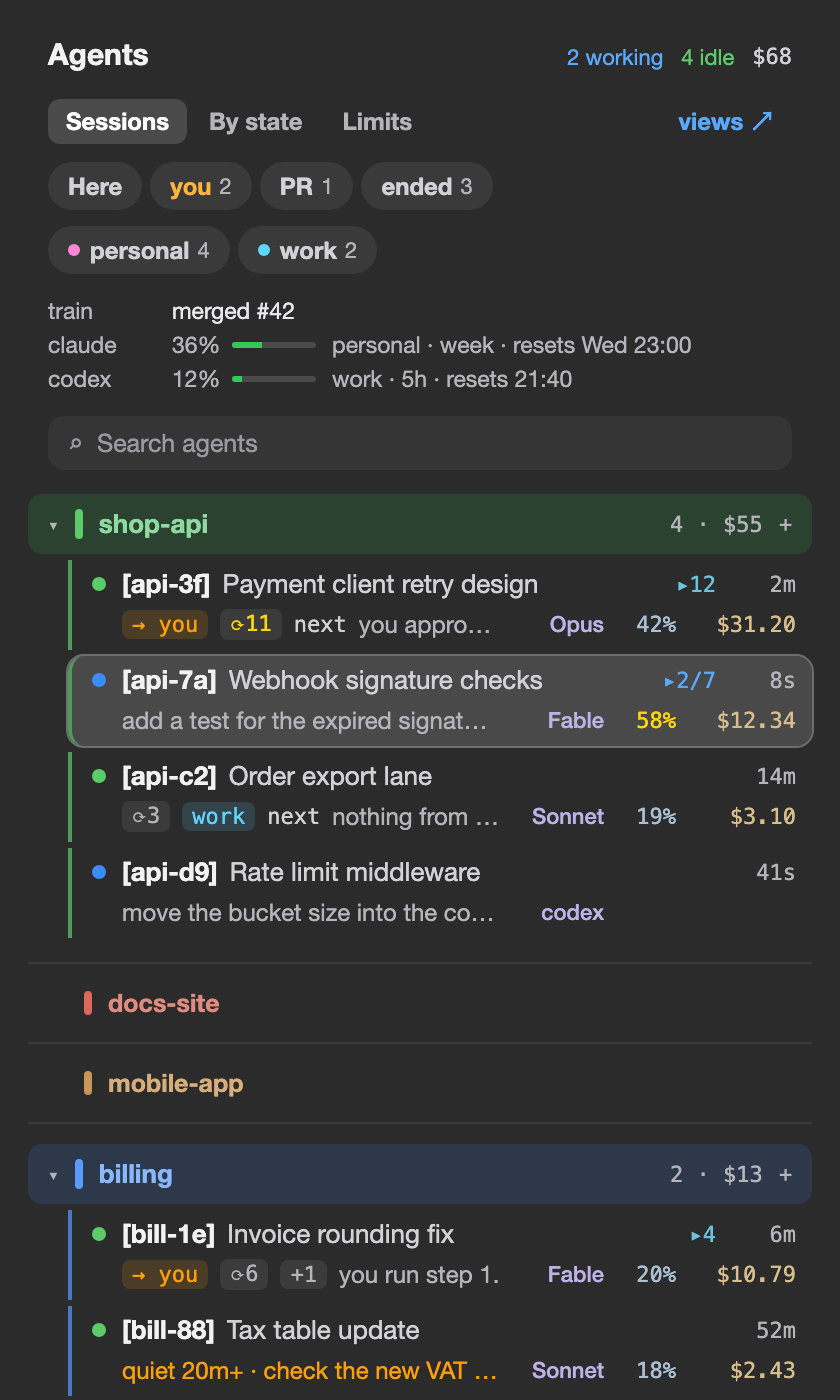
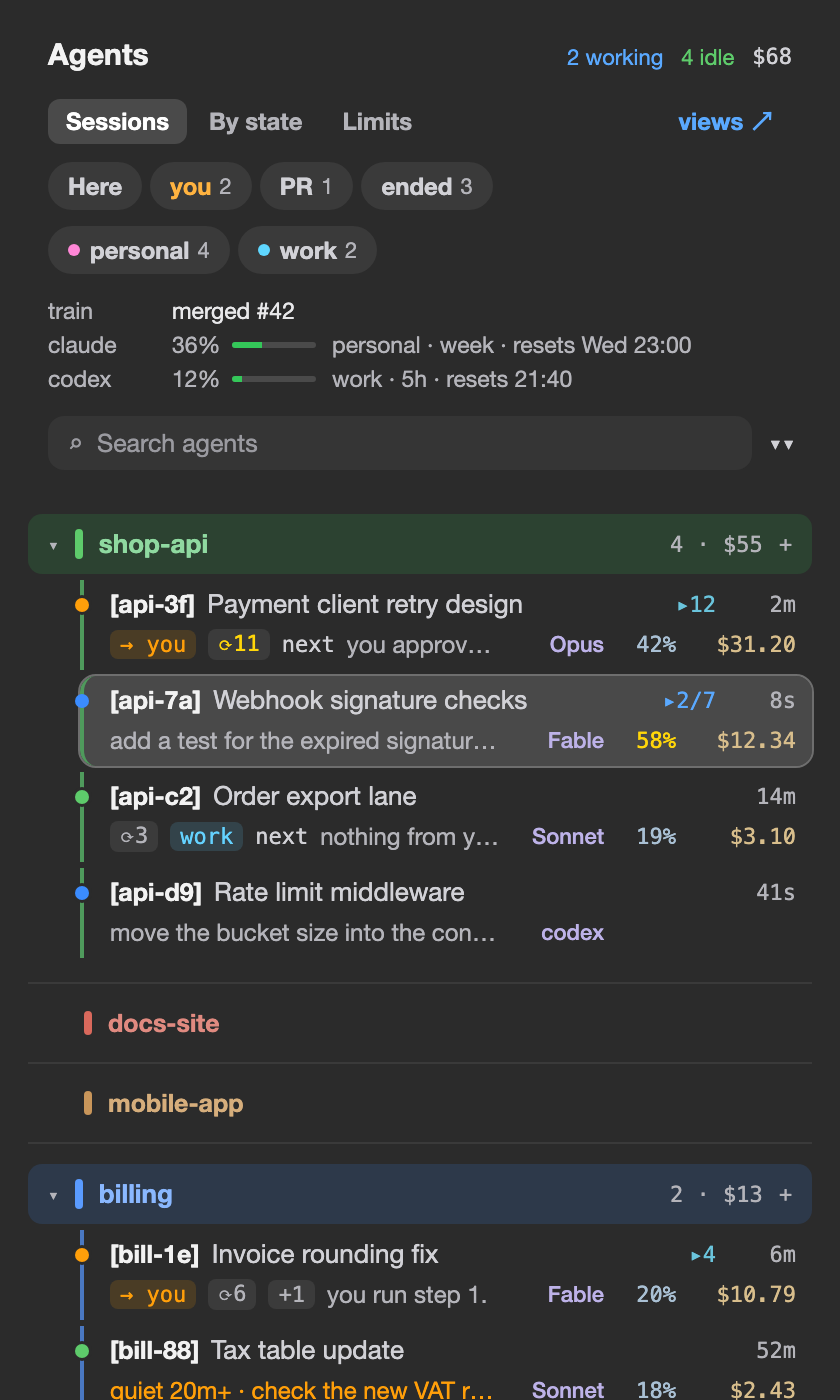
Docs: dot on the group line, fold-all mark, your-turn colour, title size
Claude-Session: https://claude.ai/code/session_01HXnduJEMf4sVkPrvQkemg9

diff --git a/examples/panel.html b/examples/panel.html
@@ -29,12 +29,14 @@
   .band .sp { flex: 1; }
   .empty { display: flex; align-items: center; gap: 8px; padding: 12px 10px 12px 28px; border-top: 1px solid #3a3a3a; font-weight: 600; font-size: 12.5px; }
   .empty i { width: 4px; height: 12px; border-radius: 2px; display: inline-block; }
-  .row { margin: 3px 0 0 20px; padding: 4px 8px 5px 10px; border-left: 2px solid; border-radius: 0 8px 8px 0; }
+  .row { position: relative; margin: 3px 0 0 26px; padding: 4px 8px 5px 13px; border-left: 2px solid; border-radius: 0 8px 8px 0; }
   .row.on { background: #494949; border-radius: 8px; outline: 1px solid #6e6e6e; }
   .l1, .l2 { display: flex; align-items: center; gap: 6px; white-space: nowrap; }
-  .l2 { margin-top: 4px; padding-left: 15px; font-size: 12px; height: 16px; }
-  .dot { width: 7px; height: 7px; border-radius: 50%; flex: none; margin-right: 2px; }
-  .l1 b { font-weight: 600; font-size: 13px; color: #f2f2f2; }
+  .l2 { margin-top: 4px; font-size: 12px; height: 16px; }
+  /* The status dot sits on the group line, as a node on a rail. */
+  .dot { position: absolute; left: -4.5px; top: 9px; width: 7px; height: 7px; border-radius: 50%; box-shadow: 0 0 0 1.5px #2b2b2b; }
+  .row.on .dot { box-shadow: none; }
+  .l1 b { font-weight: 600; font-size: 12.5px; color: #f2f2f2; }
   .l1 .t { color: #d1d1d6; overflow: hidden; text-overflow: ellipsis; flex: 1; }
   .kids { font: 11px ui-monospace, Menlo, monospace; color: #6ac4dc; }
   .time { font: 11px ui-monospace, Menlo, monospace; color: #b4b4ba; width: 34px; text-align: right; }
@@ -61,11 +63,11 @@
     <div><span class="k">claude</span><span class="p">36%</span><span class="m"><i style="width:36%"></i></span><span class="r">personal · week · resets Wed 23:00</span></div>
     <div><span class="k">codex</span><span class="p">12%</span><span class="m"><i style="width:12%"></i></span><span class="r">work · 5h · resets 21:40</span></div>
   </div>
-  <div class="search">⌕&nbsp; Search agents</div>
+  <div style="display:flex;align-items:center"><div class="search" style="flex:1;margin-right:0">⌕&nbsp; Search agents</div><span class="mono" style="width:30px;text-align:center;color:#d1d1d6;font-size:11px;margin-top:-2px">▾▾</span></div>
 
   <div class="band" style="background:#34c75926;color:#8fd9a0"><span class="mono" style="font-size:9px;color:#b4b4ba">▾</span><i style="background:#5ecb6b"></i>shop-api<span class="sp"></span><small>4 · $55</small><small>+</small></div>
   <div class="row" style="border-color:#4f9a5c">
-    <div class="l1"><span class="dot" style="background:#5ecb6b"></span><b>[api-3f]</b><span class="t">Payment client retry design</span><span class="kids">▸12</span><span class="time">2m</span></div>
+    <div class="l1"><span class="dot" style="background:#ff9f0a"></span><b>[api-3f]</b><span class="t">Payment client retry design</span><span class="kids">▸12</span><span class="time">2m</span></div>
     <div class="l2"><span class="pill you">→ you</span><span class="pill hot">⟳11</span><span class="nx">next</span><span class="txt">you approve the retry plan</span><span class="c model">Opus</span><span class="c ctx">42%</span><span class="c cost">$31.20</span></div>
   </div>
   <div class="row on" style="border-color:#4f9a5c">
@@ -86,7 +88,7 @@
 
   <div class="band" style="background:#3b8cff26;color:#8ab8ff"><span class="mono" style="font-size:9px;color:#b4b4ba">▾</span><i style="background:#5a9bff"></i>billing<span class="sp"></span><small>2 · $13</small><small>+</small></div>
   <div class="row" style="border-color:#4a78c2">
-    <div class="l1"><span class="dot" style="background:#5ecb6b"></span><b>[bill-1e]</b><span class="t">Invoice rounding fix</span><span class="kids">▸4</span><span class="time">6m</span></div>
+    <div class="l1"><span class="dot" style="background:#ff9f0a"></span><b>[bill-1e]</b><span class="t">Invoice rounding fix</span><span class="kids">▸4</span><span class="time">6m</span></div>
     <div class="l2"><span class="pill you">→ you</span><span class="pill">⟳6</span><span class="pill">+1</span><span class="txt">you run step 1.</span><span class="c model">Fable</span><span class="c ctx">20%</span><span class="c cost">$10.79</span></div>
   </div>
   <div class="row" style="border-color:#4a78c2">

diff --git a/README.md b/README.md
@@ -48,13 +48,13 @@ All pictures in this file are renders with sample names and sample figures.
 | Last prompt | The start of your last request to a Claude Code session, in the row details and in the search |
 | State from the screen | Codex, OpenCode, Grok and Antigravity tabs publish no state. The row says `working · from screen` or `asked · from screen`, read from the last 30 lines of the tab |
 | Compact layout | The name of a session keeps the room: marks are short (`❄190K` cold cache, `83%` context, `▸2/11` subagents running of total) and never cut. Chips with no matching row are left out. The panel head counts states in words: orange needs you, blue working, green idle |
-| Groups | A workspace band is tinted in the workspace colour and carries its name in that colour. Its sessions sit 12 pt inside it, and subagent rows one step further. A workspace with no session is a flat line in its own colour. A settled session row is flat too: only the focused row, a row that asks and a row that finished unseen have a fill. A dark workspace colour is lightened so it shows on a dark panel |
-| Row | Every session takes the same two lines, whatever its state, so the list does not jump when a session starts or ends a turn. Line 1: `[name]`, the title, the subagent count and the time. Line 2: at most 2 pills of at most 10 characters and a `+N` pill that names the rest on hover (a row must never be wider than the panel), then why it waits, the next step (after a `next` label) or your last request. Line 2 ends with three columns that line up down the list: the model in lavender (the tool when no model is known), the context share in slate blue (yellow from 50%) and the cost in sand. The time stays grey, and orange for a session that waits |
+| Groups | A workspace band is tinted in the workspace colour and carries its name in that colour. Its sessions sit 12 pt inside it, and subagent rows one step further. A thin line in the workspace colour runs down the left of its rows, and the status dot of each session sits on that line, so the two marks share one narrow column. A workspace with no session is a flat line in its own colour. A settled session row is flat too: only the focused row, a row that asks and a row that finished unseen have a fill. A dark workspace colour is lightened so it shows on a dark panel |
+| Row | Every session takes the same two lines, whatever its state, so the list does not jump when a session starts or ends a turn. Line 1: `[name]`, the title, the subagent count and the time. The name and title are 11.5 pt: the system monospaced font is wider than a terminal font, so this reads as 12 pt terminal text. Line 2: at most 2 pills of at most 10 characters and a `+N` pill that names the rest on hover (a row must never be wider than the panel), then why it waits, the next step (after a `next` label) or your last request. Line 2 ends with the model in lavender (the tool when no model is known) and two columns that line up down the list: the context share in slate blue (yellow from 50%) and the cost in sand. The token count is in the row details, so the next step has the width. The time stays grey, and orange for a session that waits |
 | Title | `[name]` then the title of the tab. A tab with no title of its own shows the title of its session in Claude Code: the one you set with `/rename`, else the one the tool gave it |
 | Limits | One group per account: the account name once as a small header, then each tool with its windows (5 hours and week on separate lines, the tool name once): bar, percent, window and reset time; the age shows on hover. The tools of that account with no data share one muted `no data` line, and the cost of the account ends its group. Tools with no account name come last, under `other`. With one account and no accounts file there is no header. The `tools` switch (where `state` sits in the other views) groups by tool instead. The strip of the session list shows one limit line per tool that reports a live window (`claude`, `codex`, …): the highest window of that tool over all its accounts, with the account, the window and the reset time |
 | Focus and hover | The session of the focused tab has a fill and a thin outline. A row under the pointer has a faint fill only |
 | Request | The last request that you typed, with `…` when it is cut, on the second line of a session that works. A notice that the tool added (a text that starts with `<`) is never shown as a request |
-| Cards and pills | Each session is a rounded card: orange tint when it asks, purple when it finished and you did not look. Its marks are small coloured pills under the name, by priority: the wrong-account mark `≠ work`, a PR that needs you, `83%`, `→ you`, `↑2`, `dup`, `⟳3`, `❄190K`, PR, account, folder. A row shows the first 2; `+N` names the rest on hover, and the row details list all of them. The tool has no pill: the model column names it |
+| Cards and pills | Each session is a rounded card: orange tint when it is blocked on your answer, a light purple tint when it finished and you did not look. A session that ended its turn with a step for you has an orange dot and no tint. Its marks are small coloured pills under the name, by priority: the wrong-account mark `≠ work`, a PR that needs you, `83%`, `→ you`, `↑2`, `dup`, `⟳3`, `❄190K`, PR, account, folder. A row shows the first 2; `+N` names the rest on hover, and the row details list all of them. The tool has no pill: the model column names it |
 | Stalled | A session with no output for 20 minutes shows `quiet 20m+` in orange on its second line |
 | Health | One mark per row, the worst first: `loop 6` (red: 6 failed tool calls in a row), `overlap 2` (yellow: 2 files also edited by another session), `silent 1` (yellow: a subagent with no output for 10 minutes to 2 hours). The row details list all of them, with the total of failed tool calls and API errors; that total is not a mark, because every long session has one |
 | On its agents | A session that ended its turn while its subagents still run shows `agents running` and is not counted in `NEEDS YOU` until they end. A permission or a question always counts |
